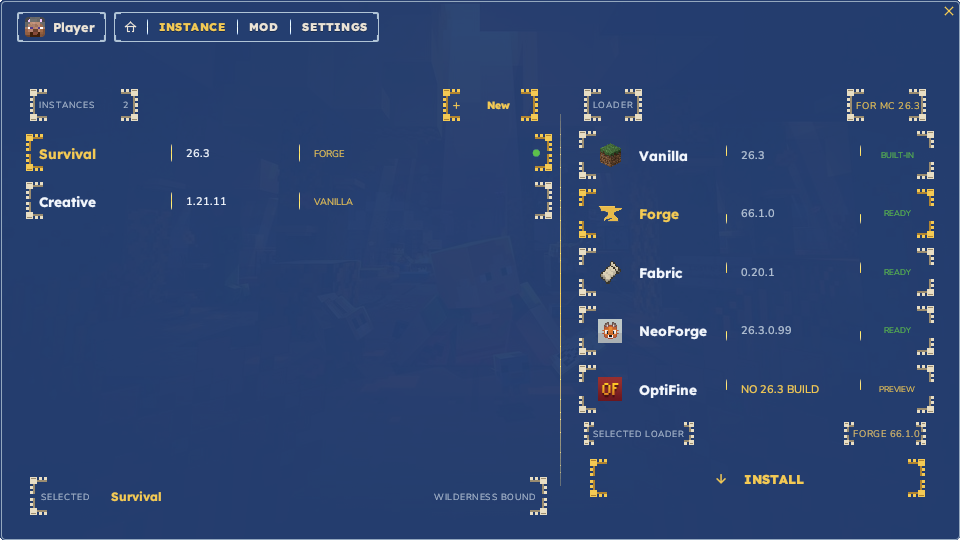
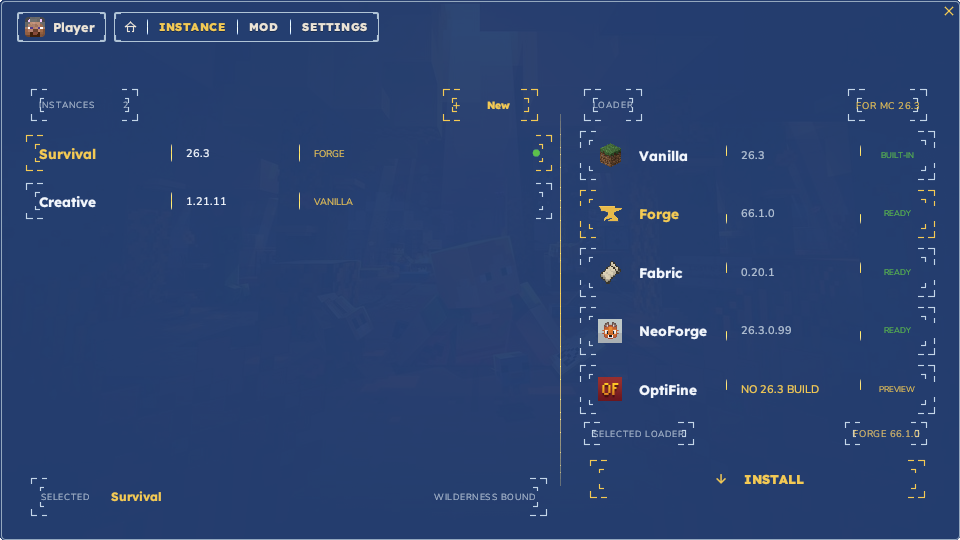
Release 0.2.18 with side marks and inner corner caps.
The version page keeps the previous corner design. Each side has a short mark, and each corner also has a smaller cap inside it.

diff --git a/src/desktop.rs b/src/desktop.rs
@@ -3244,74 +3244,45 @@ fn paint_open_frame(painter: &egui::Painter, rect: egui::Rect) {
     paint_corner_caps(painter, rect, edge);
 }
 
-/// Version-page element: castle corners only. No fill and no full stroke.
+/// Version-page element: the previous corner caps, a smaller cap inside each
+/// corner, and a short designed mark on each side. No full stroke.
 fn paint_version_corners(painter: &egui::Painter, rect: egui::Rect, on: bool) {
-    let stone = if on {
-        egui::Color32::from_rgb(244, 202, 84)
-    } else {
-        egui::Color32::from_rgb(232, 222, 196)
-    };
-    let course = if on {
-        egui::Color32::from_rgb(176, 132, 48)
-    } else {
-        egui::Color32::from_rgb(154, 140, 112)
-    };
-    let m = rect.width().min(rect.height());
-    // Small chips keep a short turret so the label stays clear.
-    let (tower, tooth, count) = if m < 32.0 {
-        (5.0, 3.0, 1)
-    } else {
-        (7.0, 3.0, 2)
-    };
+    let color = if on { GOLD } else { egui::Color32::from_rgb(196, 214, 232) };
+    let stroke = egui::Stroke::new(1.15, color);
+    let small = rect.height().min(rect.width()) < 30.0;
+    let leg = if small { 5.0 } else { 6.0 };
+    let inner = if small { 3.0 } else { 4.0 };
+    let gap = 3.0;
+    let side = 5.0;
     let corners = [
-        (rect.left().round(), rect.top().round(), 1.0, 1.0),
-        ((rect.right() - 1.0).round(), rect.top().round(), -1.0, 1.0),
-        (rect.left().round(), (rect.bottom() - 1.0).round(), 1.0, -1.0),
-        ((rect.right() - 1.0).round(), (rect.bottom() - 1.0).round(), -1.0, -1.0),
+        (rect.left() + 1.0, rect.top() + 1.0, 1.0, 1.0, rect.width(), rect.height()),
+        (rect.right() - 1.0, rect.top() + 1.0, -1.0, 1.0, rect.width(), rect.height()),
+        (rect.left() + 1.0, rect.bottom() - 1.0, 1.0, -1.0, rect.width(), rect.height()),
+        (rect.right() - 1.0, rect.bottom() - 1.0, -1.0, -1.0, rect.width(), rect.height()),
     ];
-    for (x, y, sx, sy) in corners {
-        paint_castle_corner(painter, x, y, sx, sy, tower, tooth, count, stone, course);
-    }
-}
-
-fn paint_castle_corner(
-    painter: &egui::Painter,
-    x: f32,
-    y: f32,
-    sx: f32,
-    sy: f32,
-    tower: f32,
-    tooth: f32,
-    count: i32,
-    stone: egui::Color32,
-    course: egui::Color32,
-) {
-    let gap = 2.0;
-    let thick = 2.0;
-    let span = count as f32 * tooth + (count - 1).max(0) as f32 * gap;
-    let map = |lx: f32, ly: f32, lw: f32, lh: f32| {
-        let x0 = (x + sx * lx).round();
-        let y0 = (y + sy * ly).round();
-        let x1 = (x + sx * (lx + lw)).round();
-        let y1 = (y + sy * (ly + lh)).round();
-        egui::Rect::from_min_max(egui::pos2(x0.min(x1), y0.min(y1)), egui::pos2(x0.max(x1), y0.max(y1)))
-    };
-    let fill = |lx: f32, ly: f32, lw: f32, lh: f32, color: egui::Color32| {
-        let block = map(lx, ly, lw, lh);
-        if block.width() >= 1.0 && block.height() >= 1.0 {
-            painter.rect_filled(block, 0.0, color);
+    for (x, y, sx, sy, along_x, along_y) in corners {
+        painter.line_segment([egui::pos2(x, y), egui::pos2(x + sx * leg, y)], stroke);
+        painter.line_segment([egui::pos2(x, y), egui::pos2(x, y + sy * leg)], stroke);
+        let ix = x + sx * (leg + gap);
+        let iy = y + sy * (leg + gap);
+        if ix > rect.left() + 2.0 && ix < rect.right() - 2.0 && iy > rect.top() + 2.0 && iy < rect.bottom() - 2.0 {
+            painter.line_segment([egui::pos2(ix, iy), egui::pos2(ix + sx * inner, iy)], stroke);
+            painter.line_segment([egui::pos2(ix, iy), egui::pos2(ix, iy + sy * inner)], stroke);
         }
-    };
-    // Corner turret, then a crenellated curtain wall on each arm.
-    fill(0.0, 0.0, tower, tower, stone);
-    fill(1.0, 1.0, tower - 2.0, 1.0, course);
-    for i in 0..count {
-        let at = tower + gap + i as f32 * (tooth + gap);
-        fill(at, 0.0, tooth, tooth, stone);
-        fill(0.0, at, tooth, tooth, stone);
+        let dash = leg + gap + 2.0;
+        if along_x > (dash + side) * 2.0 + 10.0 {
+            painter.line_segment(
+                [egui::pos2(x + sx * dash, y), egui::pos2(x + sx * (dash + side), y)],
+                stroke,
+            );
+        }
+        if along_y > (dash + side) * 2.0 + 10.0 {
+            painter.line_segment(
+                [egui::pos2(x, y + sy * dash), egui::pos2(x, y + sy * (dash + side))],
+                stroke,
+            );
+        }
     }
-    fill(tower, tooth, span + gap, thick, course);
-    fill(tooth, tower, thick, span + gap, course);
 }
 
 /// One element, one template. Slightly open so the wallpaper still shows through.

diff --git a/README.md b/README.md
@@ -124,8 +124,8 @@ Linux sandbox: `apt install bubblewrap`. Without it, the client still gets a pri
 
 | Platform | File |
 | --- | --- |
-| Linux x86-64 | [rus-linux-x86_64](https://github.com/obsifox/rus/releases/download/0.2.17/rus-linux-x86_64) |
-| Windows x64 | [rus-windows-x64.exe](https://github.com/obsifox/rus/releases/download/0.2.17/rus-windows-x64.exe) |
+| Linux x86-64 | [rus-linux-x86_64](https://github.com/obsifox/rus/releases/download/0.2.18/rus-linux-x86_64) |
+| Windows x64 | [rus-windows-x64.exe](https://github.com/obsifox/rus/releases/download/0.2.18/rus-windows-x64.exe) |
 
 Linux:
 
